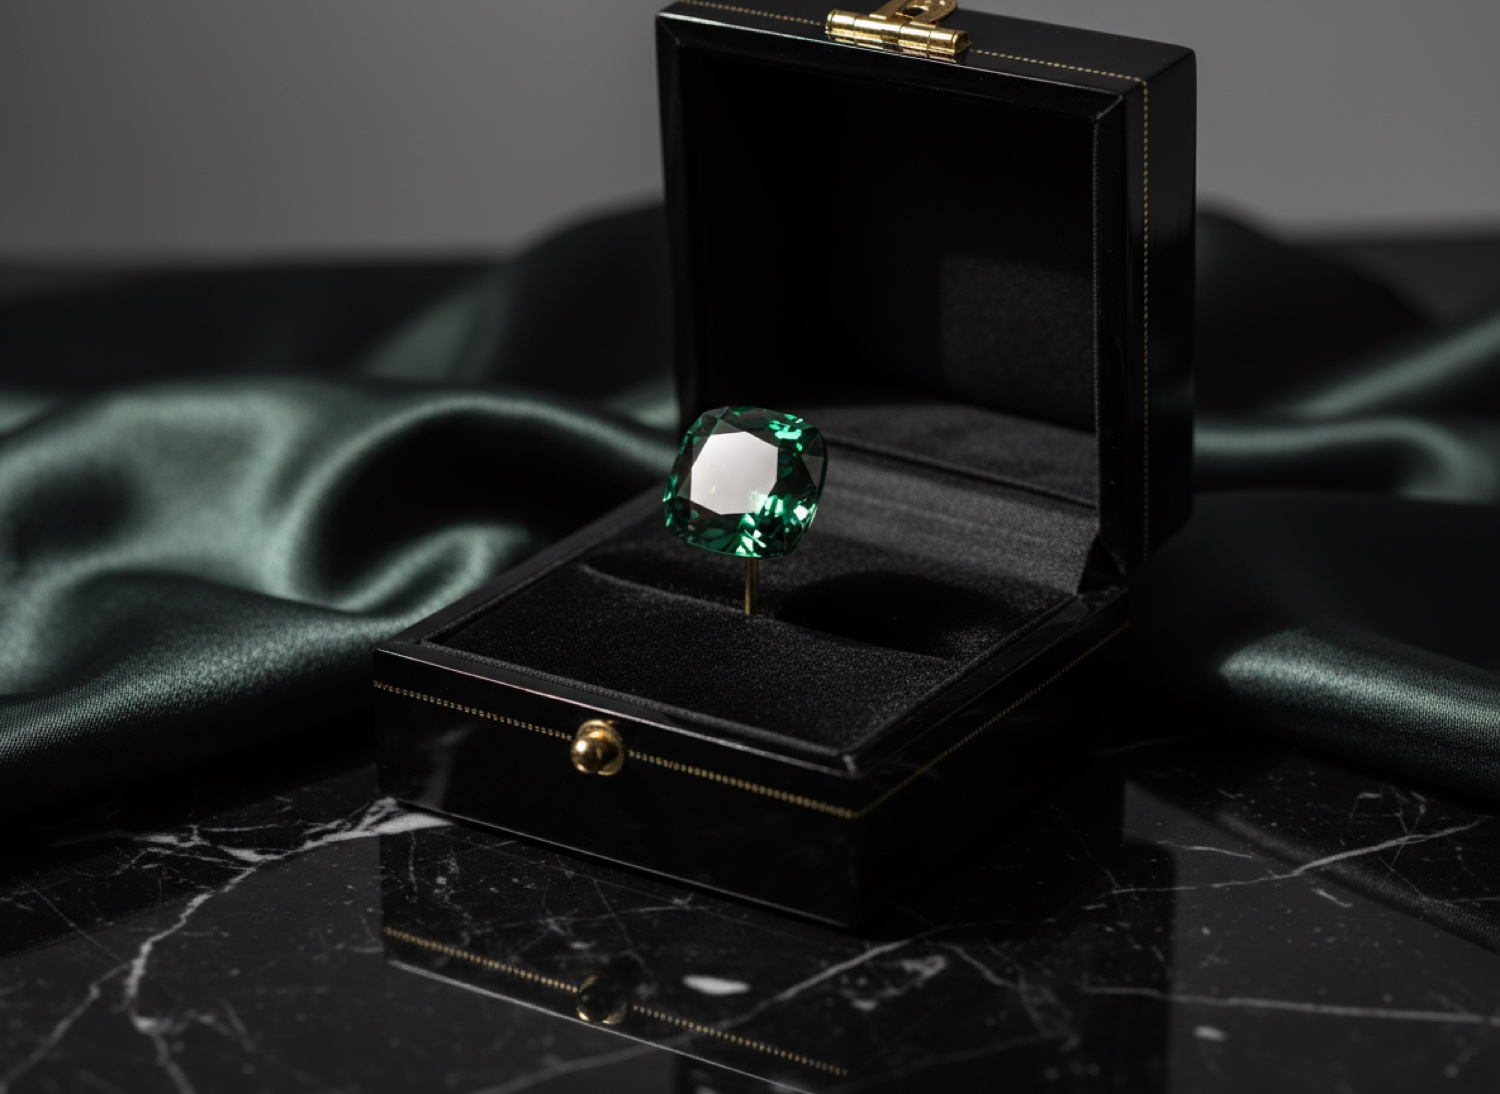
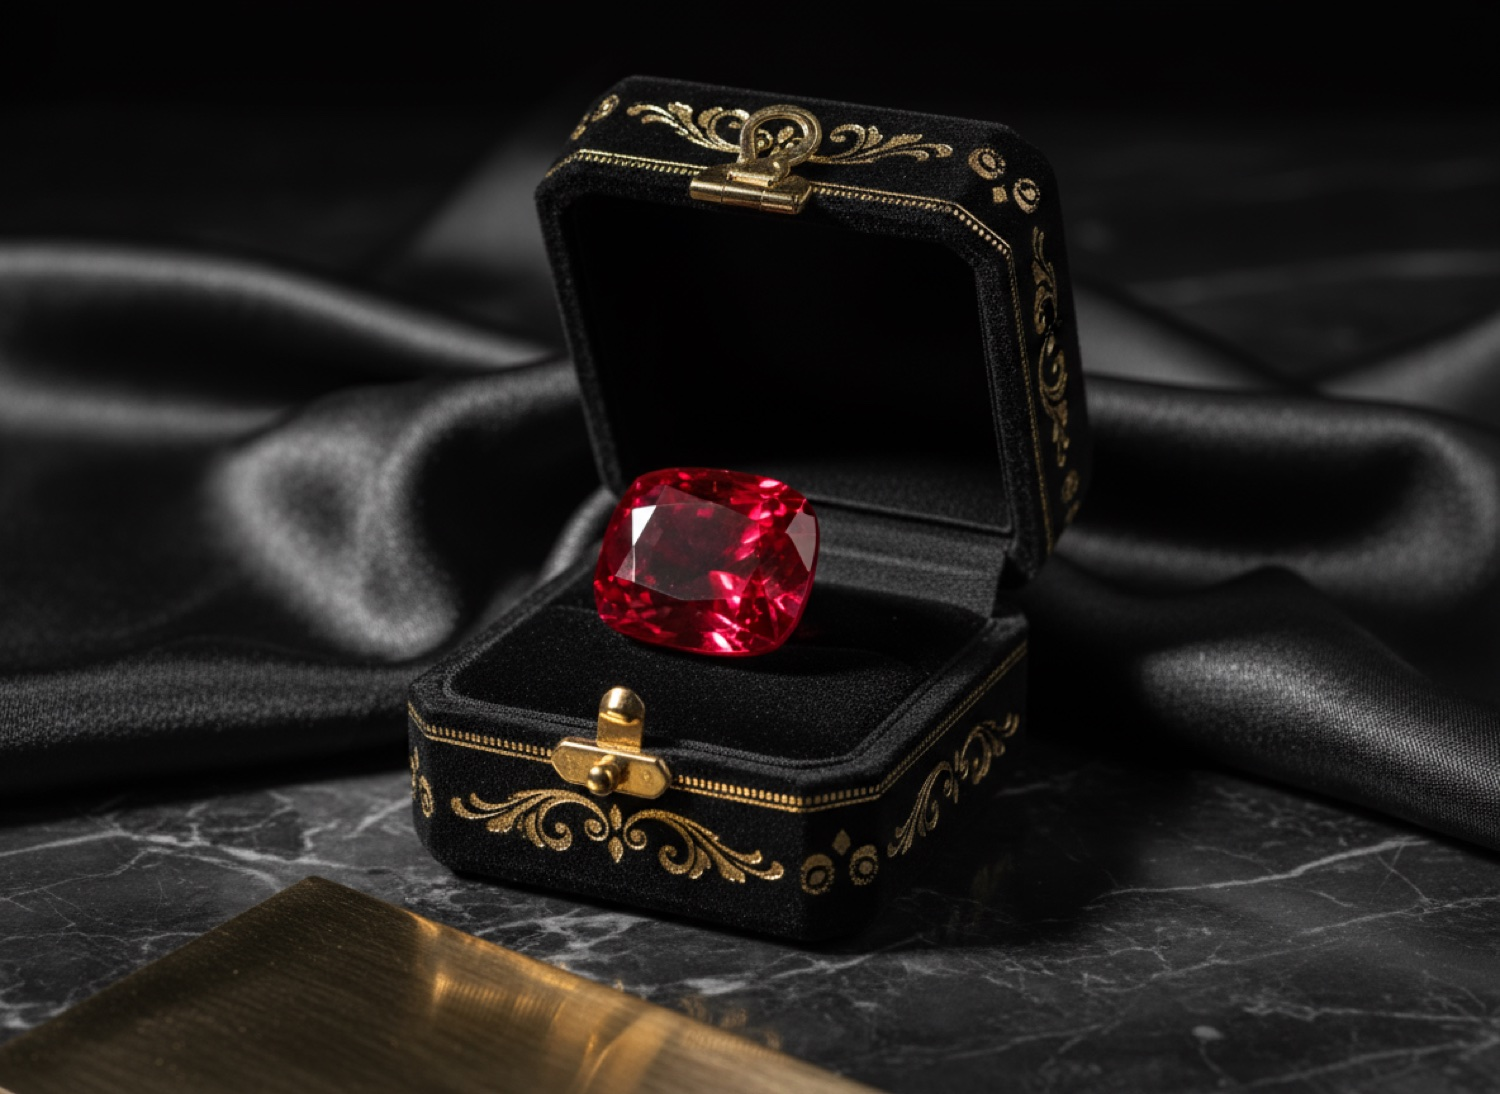
Mobile polish: instant-black menu, hero poster, moment order, equal gem cards
- Mobile menu opens fully opaque immediately (was fading in from transparent).
- Hero: remove the poster image (a stone-collection frame that flashed in
  before the video); dark background instead.
- Gemstone moment: the "ruby" render was actually green — swap in the real red
  ruby, and reorder to Ruby/Emerald/Diamond/Aquamarine so the two cool-green
  stones aren't adjacent. Stronger headline shadow + a touch more scrim so the
  white "Roh geboren" stays legible over bright gems (e.g. the diamond).
- GemCards: clamp description to 3 lines with a reserved min-height so the
  Edelsteine cards are equal height.
- Footer bottom row stacks and centers on small screens.
- More touch feedback: category/product tiles zoom on tap, finder options and
  pressable elements react on :active (hover: none).

diff --git a/components/home/GemstoneMoment.tsx b/components/home/GemstoneMoment.tsx
@@ -14,8 +14,8 @@ const COPY: Record<Locale, { eyebrow: string; l1: string; l2: string; stones: St
     stones: [
       { src: "/assets/imagery/moment-ruby.jpg", name: "Rubin", note: "Feuer, das bleibt." },
       { src: "/assets/imagery/moment-emerald.jpg", name: "Smaragd", note: "Tiefe, die trägt." },
-      { src: "/assets/imagery/moment-aqua.jpg", name: "Aquamarin", note: "Klarheit, die berührt." },
       { src: "/assets/imagery/moment-diamond.jpg", name: "Diamant", note: "Licht, das bleibt." },
+      { src: "/assets/imagery/moment-aqua.jpg", name: "Aquamarin", note: "Klarheit, die berührt." },
     ],
   },
   en: {
@@ -25,8 +25,8 @@ const COPY: Record<Locale, { eyebrow: string; l1: string; l2: string; stones: St
     stones: [
       { src: "/assets/imagery/moment-ruby.jpg", name: "Ruby", note: "Fire that stays." },
       { src: "/assets/imagery/moment-emerald.jpg", name: "Emerald", note: "Depth that carries." },
-      { src: "/assets/imagery/moment-aqua.jpg", name: "Aquamarine", note: "Clarity that moves." },
       { src: "/assets/imagery/moment-diamond.jpg", name: "Diamond", note: "Light that remains." },
+      { src: "/assets/imagery/moment-aqua.jpg", name: "Aquamarine", note: "Clarity that moves." },
     ],
   },
 };
@@ -120,7 +120,7 @@ export function GemstoneMoment({ lang }: { lang: Locale }) {
         </div>
 
         {/* Ink-Vignette für Lesbarkeit */}
-        <div style={{ position: "absolute", inset: 0, background: "radial-gradient(120% 90% at 50% 42%, transparent 28%, rgba(7,7,8,.58) 76%, rgba(7,7,8,.92) 100%)" }} />
+        <div style={{ position: "absolute", inset: 0, background: "radial-gradient(120% 95% at 50% 44%, rgba(7,7,8,.28) 12%, rgba(7,7,8,.62) 72%, rgba(7,7,8,.93) 100%)" }} />
 
         {/* Gold-/Farb-Glow-Puls (wechselt mit dem Stein) */}
         <motion.div aria-hidden style={{ position: "absolute", width: "52vmax", height: "52vmax", borderRadius: "50%", background: glowBg, opacity: glowOpacity, filter: "blur(10px)", pointerEvents: "none" }} />
@@ -170,6 +170,7 @@ const headlineStyle: React.CSSProperties = {
   lineHeight: "var(--leading-display)",
   letterSpacing: "var(--tracking-hero)",
   color: "var(--text-primary)",
+  textShadow: "0 2px 34px rgba(0,0,0,.7), 0 2px 6px rgba(0,0,0,.55)",
 };
 
 function Eyebrow({ children }: { children: React.ReactNode }) {

diff --git a/components/home/Hero.tsx b/components/home/Hero.tsx
@@ -38,24 +38,25 @@ export function Hero() {
       style={{ position: "relative", height: "92vh", minHeight: 640, display: "grid", placeItems: "center", overflow: "hidden" }}
     >
       <motion.div
-        style={{ position: "absolute", inset: "-8% 0", y: bgY, willChange: "transform" }}
+        style={{ position: "absolute", inset: "-8% 0", y: bgY, background: "var(--ink-1000)", willChange: "transform" }}
         initial={{ scale: 1.08, opacity: 0 }}
         animate={{ scale: 1, opacity: 1 }}
         transition={{ duration: 1.6, ease: SILK }}
       >
         {reduce ? (
+          // Nur bei reduzierter Bewegung ein Standbild (kein Autoplay-Video möglich)
           // eslint-disable-next-line @next/next/no-img-element
           <img src={IMG.hero} alt="" style={{ width: "100%", height: "100%", objectFit: "cover" }} />
         ) : (
+          // Kein poster-Bild — sonst blendet vor dem Video ein Steine-Bild ein.
           <video
             autoPlay
             muted
             loop
             playsInline
             preload="auto"
-            poster={IMG.hero}
             aria-hidden
-            style={{ width: "100%", height: "100%", objectFit: "cover" }}
+            style={{ width: "100%", height: "100%", objectFit: "cover", background: "var(--ink-1000)" }}
           >
             <source src="/assets/video/hero-craft.mp4" type="video/mp4" />
           </video>

diff --git a/components/ds/commerce/GemCard.jsx b/components/ds/commerce/GemCard.jsx
@@ -34,7 +34,7 @@ export function GemCard({ name, description, image, cuts = [], onClick, style })
           <span style={{ fontFamily: "var(--font-display)", fontSize: "var(--text-subtitle)", fontWeight: "var(--weight-light)" }}>{name}</span>
         </div>
         {description ? (
-          <p style={{ margin: "var(--space-3) 0 0", fontSize: "var(--text-body-sm)", fontWeight: "var(--weight-light)", lineHeight: "var(--leading-body)", color: "var(--text-secondary)" }}>{description}</p>
+          <p style={{ margin: "var(--space-3) 0 0", fontSize: "var(--text-body-sm)", fontWeight: "var(--weight-light)", lineHeight: "var(--leading-body)", color: "var(--text-secondary)", display: "-webkit-box", WebkitLineClamp: 3, WebkitBoxOrient: "vertical", overflow: "hidden", minHeight: "4.5em" }}>{description}</p>
         ) : null}
         {cuts.length ? (
           <div style={{ display: "flex", flexWrap: "wrap", gap: "8px", marginTop: "var(--space-5)" }}>

diff --git a/app/globals.css b/app/globals.css
@@ -163,6 +163,35 @@ html.lenis,
   background: rgba(201, 162, 90, 0.06) !important;
 }
 
+/* Footer-Unterzeile mobil zentriert stapeln */
+@media (max-width: 560px) {
+  .lum-footer-bottom {
+    flex-direction: column;
+    text-align: center;
+  }
+}
+
+/* Touch: mehr spürbare Interaktion — Tap-Feedback statt Hover */
+.lum-cat-tile img,
+.lum-tile img {
+  transition: transform var(--duration-slow) var(--ease-out-silk);
+}
+@media (hover: none) {
+  .lum-cat-tile:active img,
+  .lum-tile:active img {
+    transform: scale(1.05);
+  }
+  .lum-finder-opt:active {
+    border-color: var(--gold-300);
+    color: var(--gold-100);
+    background: rgba(201, 162, 90, 0.08);
+  }
+  a:active .lum-press,
+  button.lum-press:active {
+    transform: scale(0.98);
+  }
+}
+
 .lum-grid-4 {
   display: grid;
   grid-template-columns: repeat(4, minmax(0, 1fr));

diff --git a/components/site/SiteFooter.tsx b/components/site/SiteFooter.tsx
@@ -98,6 +98,7 @@ export function SiteFooter() {
         ))}
       </div>
       <div
+        className="lum-footer-bottom"
         style={{
           maxWidth: "var(--page-max)",
           margin: "0 auto",
@@ -105,6 +106,9 @@ export function SiteFooter() {
           borderTop: "1px solid var(--border-hairline)",
           display: "flex",
           justifyContent: "space-between",
+          alignItems: "center",
+          flexWrap: "wrap",
+          gap: "var(--space-3)",
           fontSize: "var(--text-micro)",
           letterSpacing: "var(--tracking-caps-tight)",
           textTransform: "uppercase",

diff --git a/components/site/NavBar.tsx b/components/site/NavBar.tsx
@@ -188,10 +188,10 @@ export function NavBar() {
         {menuOpen ? (
           <motion.div
             ref={menuRef}
-            initial={{ opacity: 0, y: -8 }}
-            animate={{ opacity: 1, y: 0 }}
-            exit={{ opacity: 0, y: -8 }}
-            transition={{ duration: 0.32, ease: SILK }}
+            initial={{ opacity: 1 }}
+            animate={{ opacity: 1 }}
+            exit={{ opacity: 0 }}
+            transition={{ duration: 0.25, ease: SILK }}
             style={{
               position: "fixed",
               left: 0,

diff --git a/components/site/CategoryTile.tsx b/components/site/CategoryTile.tsx
@@ -14,7 +14,7 @@ export function CategoryTile({ data }: { data: CollectionTile }) {
       onMouseLeave={() => setHover(false)}
       style={{ display: "block", textDecoration: "none", color: "inherit" }}
     >
-      <div style={{ position: "relative", aspectRatio: "3 / 4", overflow: "hidden" }}>
+      <div className="lum-cat-tile" style={{ position: "relative", aspectRatio: "3 / 4", overflow: "hidden" }}>
         {/* eslint-disable-next-line @next/next/no-img-element */}
         <img
           src={data.image}
